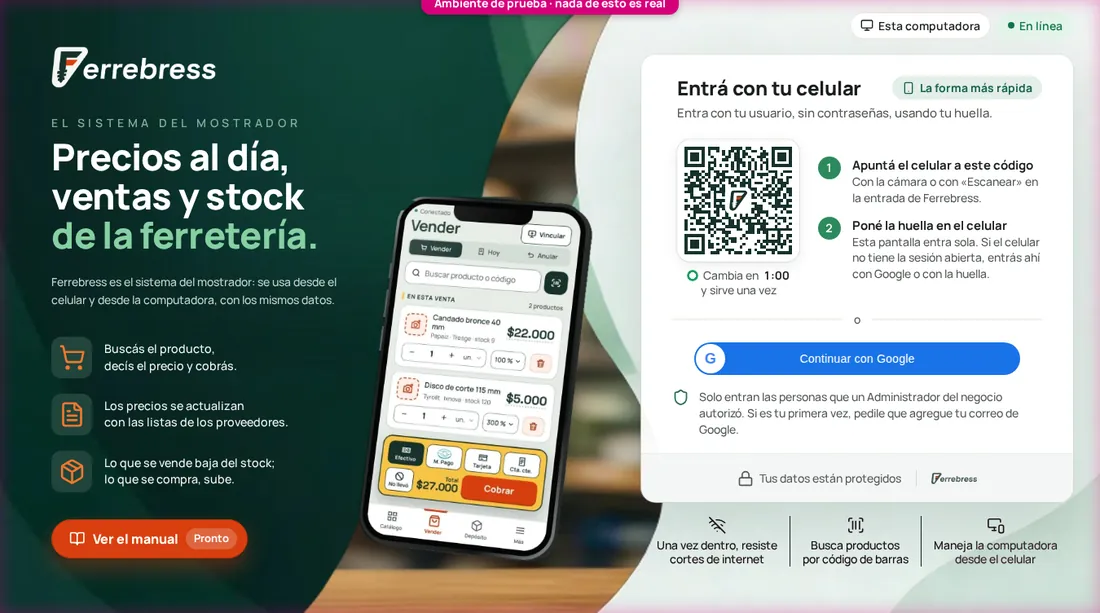
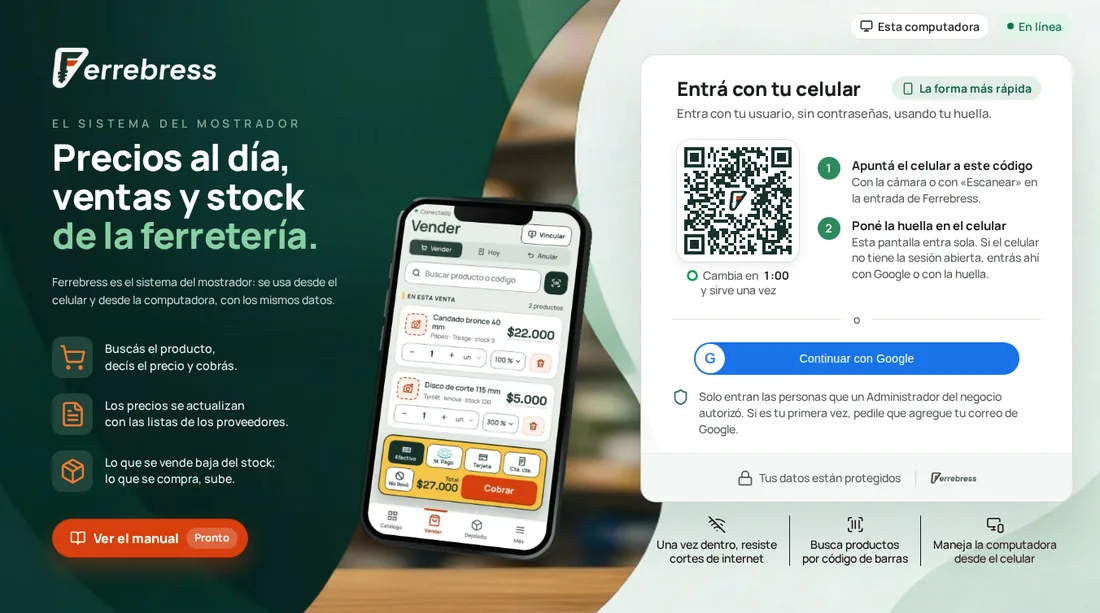
Manual: las capturas, sin el marco del ambiente de pruebas
Carlos pidió que en las capturas del manual no aparezca el ambiente de
pruebas. Las nueve se volvieron a sacar de la aplicación con el marco y el
cartel ocultos, recortadas a la misma medida que antes para que los puntos
sigan en su lugar; el de «Tu tarjeta» se ajustó a la captura nueva.

Claude-Session: https://claude.ai/code/session_01BmbhiYJAfQvWshUgYzn7JL

diff --git a/docs/design/mockups/manual/final/content.js b/docs/design/mockups/manual/final/content.js
@@ -70,7 +70,7 @@
           tips: [ "Si entra otra persona, lo que quedó a medio hacer se descarta." ] },
         { id: "d-salir", title: "Salir", icon: "log-out",
           steps: [
-            { t: "Abajo del menú de la izquierda está tu tarjeta, con tu nombre.", cap: "desktop-frame-sign-out", hot: [8.5, 88.5], label: "Tu tarjeta" },
+            { t: "Abajo del menú de la izquierda está tu tarjeta, con tu nombre.", cap: "desktop-frame-sign-out", hot: [8.5, 87.3], label: "Tu tarjeta" },
             { t: "Tocá «Salir». Vuelve a la entrada.", cap: "desktop-frame-sign-out", hot: [7.5, 94.7], label: "Salir" }
           ],
           tips: [ "Se puede salir aunque no haya internet." ] }

diff --git a/docs/design/mockups/manual/final/changes.md b/docs/design/mockups/manual/final/changes.md
@@ -54,10 +54,8 @@ el celular (390 × 844).
 - **R6.3, arranca en el dispositivo que se usa:** en la maqueta lo decide el ancho (desde 900 px,
   Computadora); en la aplicación lo dice el dispositivo. Cambiar de dispositivo cierra «Todos los
   pasos» y vuelve al principio del otro manual.
-- **R6.2, sin datos del negocio:** las capturas del director tienen el cartel «Ambiente de prueba»
-  y una persona de prueba (Ana Gómez); las tres nuevas, el marco magenta de las maquetas recortado
-  y otra persona inventada (Rubén Paredes). Para la maqueta están bien. **Las del manual de verdad
-  se sacan sin el marco de pruebas** y de una cuenta de demostración.
+- **R6.2, sin datos del negocio:** las capturas muestran personas inventadas (Ana Gómez, Rubén
+  Paredes) y ningún dato del negocio.
 - **El capítulo «Entrar», como dicen 01 y 15:**
   - «Entrar con el celular» (computadora): el consejo del Wi-Fi dice el texto del celular («Para
     entrar a la computadora, conectá este celular al mismo Wi-Fi», 01 · R2.5); el de un celular sin
@@ -127,4 +125,5 @@ el celular (390 × 844).
 - **Una captura de la computadora más alta que el escenario se achica entera** en vez de
   recortarse abajo: recortada, el aro de «Tu tarjeta» y el de «Salir» caían fuera de lugar.
 - **Las capturas y los clips del manual de verdad** se sacan sin el marco ni el cartel del ambiente
-  de pruebas, con una cuenta de demostración (00 · R6.5). Las de esta maqueta los tienen.
+  de pruebas, con una cuenta de demostración (00 · R6.5). Las de esta maqueta, las nueve, se
+  volvieron a sacar de la aplicación así, a la misma medida, para que los puntos no se muevan.
